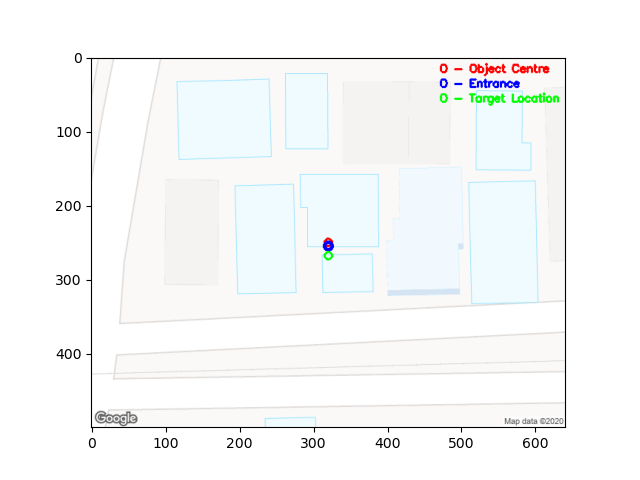
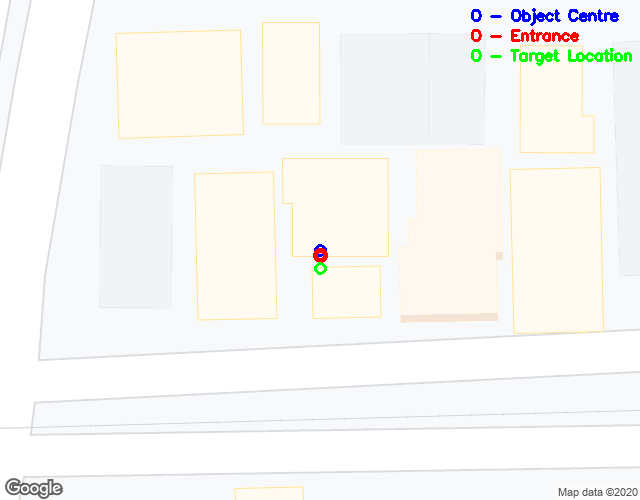
VIZ: updated the result picture

diff --git a/location_intel_main.py b/location_intel_main.py
@@ -110,8 +110,5 @@ for image in image_folder:
     cv2.putText(img, 'O - Object Centre', (470, 20), cv2.FONT_HERSHEY_SIMPLEX, 0.5, (255, 0, 0), 2)
     cv2.putText(img, 'O - Entrance', (470, 40), cv2.FONT_HERSHEY_SIMPLEX, 0.5, (0, 0, 255), 2)
     cv2.putText(img, 'O - Target Location', (470, 60), cv2.FONT_HERSHEY_SIMPLEX, 0.5, (0, 255, 0), 2)
-    fig = plt.figure()
-    plt.imshow(img)
-    plt.savefig('./result_imgs/' + image.split('/')[-1])
-    plt.close()
+    cv2.imwrite('./result_imgs/' + image.split('/')[-1],img)
     print('{}   {:.3f}  {}'.format(image.split('/')[-1], res[1][0], res[0]))
